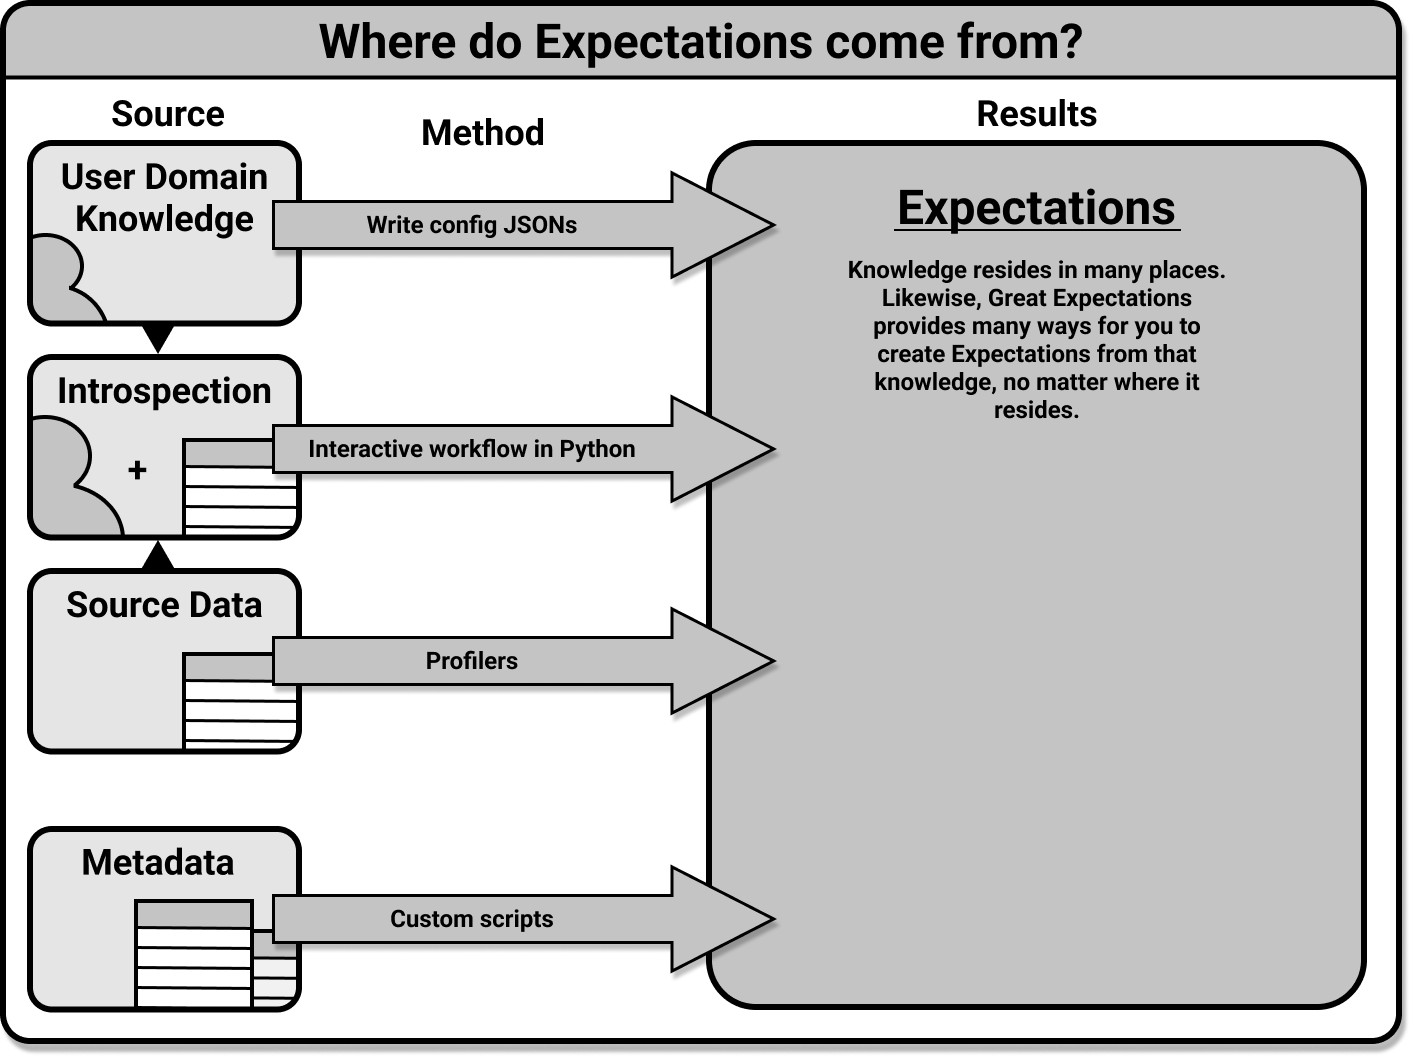
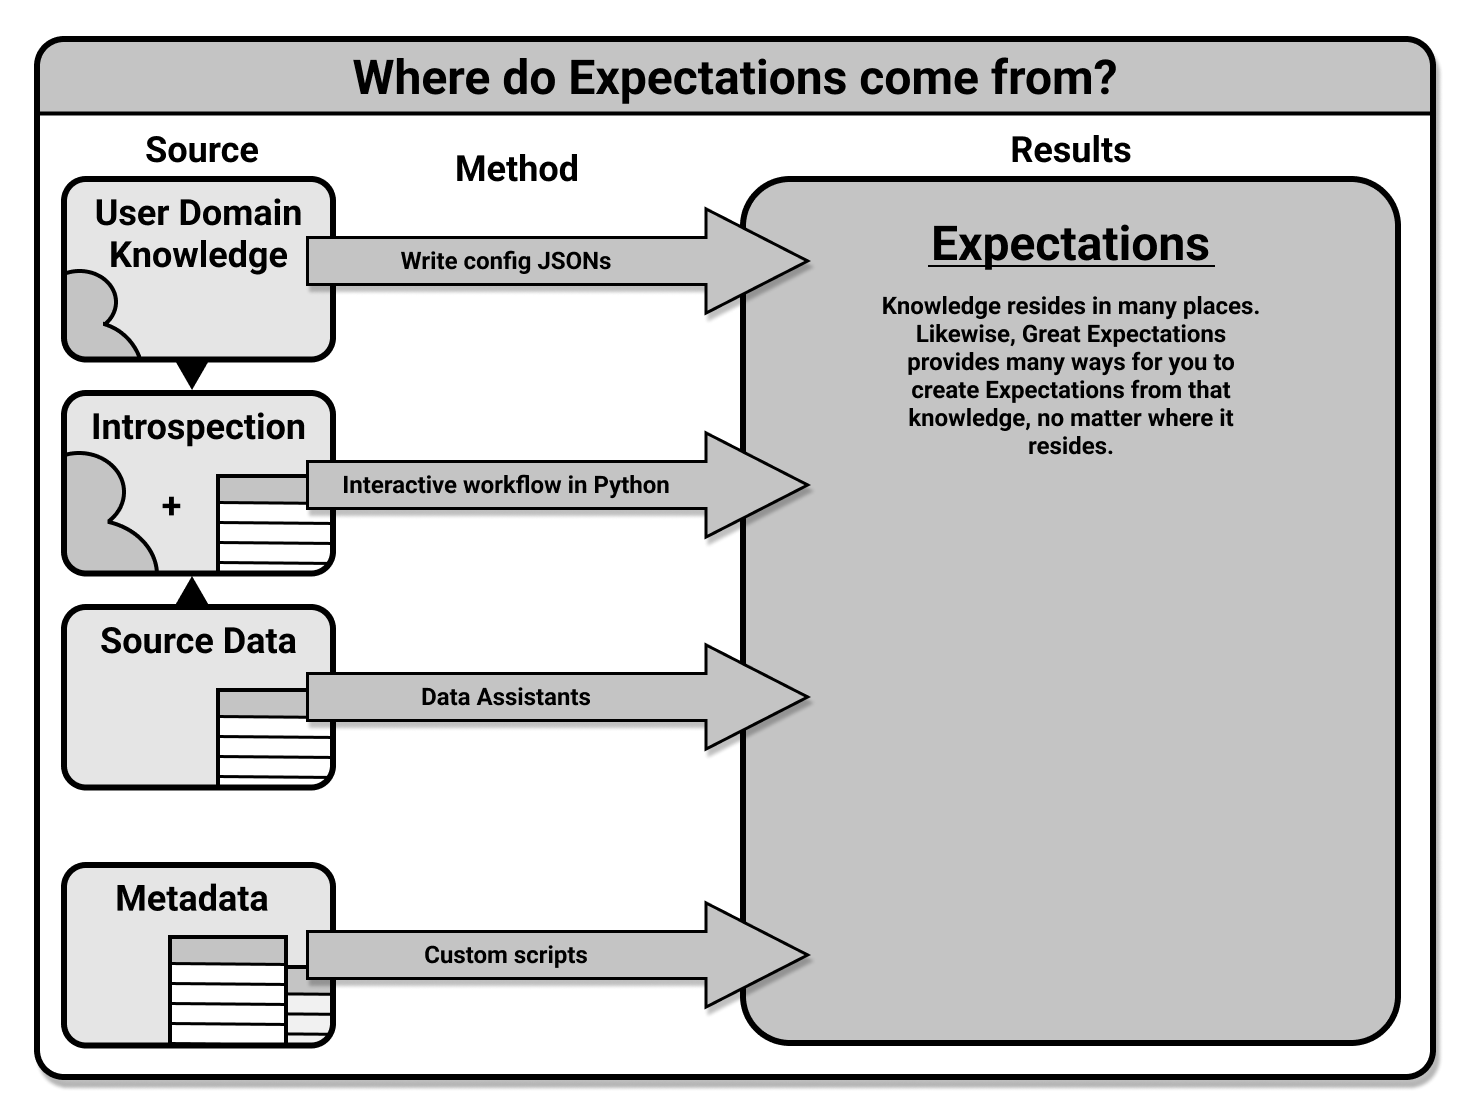
[DOCS] doc-297: update the create Expectations overview page for Data Assistants (#6212)

diff --git a/docs/guides/expectations/create_expectations_overview.md b/docs/guides/expectations/create_expectations_overview.md
@@ -26,7 +26,7 @@ Of the four potential ways to create Expectations illustrated above, two are rec
 
 The first recommended workflow of those illustrated above is the **interactive workflow.**  In this workflow, you will be working in a Python interpreter or Jupyter notebook.  You will use a <TechnicalTag tag="validator" text="Validator" /> and call expectations as methods on it to define Expectations in an Expectation Suite, and when you have finished you will save that Expectation Suite into your <TechnicalTag tag="expectation_store" text="Expectation Store" />.  A more thorough overview of this workflow, and a link to an in-depth guide on it, can be found in this document's section on [creating Expectations interactively](#creating-expectations-interactively).
 
-The second recommended workflow is the **Profiler workflow.**  In this workflow, you will use a <TechnicalTag tag="profiler" text="Profiler" /> to generate Expectations based on some input data.  The Validator will then save those Expectations as an Expectation Suite in an Expectation Store.  You will also have the option of viewing them in your <TechnicalTag tag="data_docs" text="Data Docs" />.  A more thorough overview of this workflow, and a link to an in-depth guide on it, can be found in this document's section on [creating Expectations with Profilers](#creating-expectations-with-profilers).
+The second recommended workflow is the **Data Assistant workflow.**  In this workflow, you will use a <TechnicalTag tag="data_assistant" text="Data Assistant" /> to generate Expectations based on some input data.  You may then preview the metrics that these Expectations are based on.  Finally, you save can the generated Expectations as an Expectation Suite in an Expectation Store. A more thorough overview of this workflow, and a link to an in-depth guide on it, can be found in this document's section on [creating Expectations with Data Assistants](#creating-expectations-with-data-assistants).
 
 The third workflow, which is for advanced users, is to **manually define your Expectations** by writing their configurations.  This workflow does not require source data to work against, but does require a deep understanding of the configurations available for Expectations.  We will forgo discussion of it in this document, and focus on the two recommended workflows.  If for some reason you must use this workflow, we do provide an in-depth guide to it in our documentation on [how to create and edit expectations based on domain knowledge without inspecting data directly](./how_to_create_and_edit_expectations_based_on_domain_knowledge_without_inspecting_data_directly.md).
 
@@ -40,13 +40,11 @@ When using the interactive method of creating Expectations, you will start as yo
 
 We provide an in-depth guide to using the CLI (and what flags are available to you) for interactively creating Expectations in our guide on [how to create and edit Expectations with instant feedback from a sample batch of data](./how_to_create_and_edit_expectations_with_instant_feedback_from_a_sample_batch_of_data.md).
 
-### Creating Expectations with Profilers
+### Creating Expectations with Data Assistants
 
-As with creating Expectations interactively, you will start with your Data Context.  However, in this case you will be working in a Python environment, so you will need to load or create your Data Context as an instantiated object.  Next, you will create a Batch Request to specify the data you would like to <TechnicalTag tag="profiling" text="Profile" /> in order to create your Expectation Suite.  Once you have a <TechnicalTag tag="batch_request" text="Batch Request" /> configured you will use it and the name for your Expectation Suite to instantiate a Validator.  The Validator will be used to instantiate a Profiler, and you will then use the `build_suite()` method of the Profiler to create your Expectation Suite. 
+As with creating Expectations interactively, you will start with your Data Context.  However, in this case you will be working in a Python environment, so you will need to load or create your Data Context as an instantiated object.  Next, you will create a Batch Request to specify the data you would like to <TechnicalTag tag="profiling" text="Profile" /> with your Data Assistant.  Once you have a <TechnicalTag tag="batch_request" text="Batch Request" /> configured you will use it as the input for the run method of your Data Assistant, which can be accessed from your Data Context object.  Once the Data Assistant has run, you will be able to review the results as well as save the generated Expectations to an empty Expectation Suite.
 
-The Profiler we recommend using for this workflow is the `UserConfigurableProfiler`.  We provide an in-depth guide to this in our documentation on [how to create and edit expectations with a profiler](./how_to_create_and_edit_expectations_with_a_profiler.md).
-
-We also provide in-depth guides on [how to create a new Expectation Suite using rule based Profilers](./advanced/how_to_create_a_new_expectation_suite_using_rule_based_profilers.md) and [how to create a new Expectation Suite by profiling from a json schema file](./advanced/how_to_create_a_new_expectation_suite_by_profiling_from_a_jsonschema_file.md) in our advanced how to guides for Expectations.
+The Data Assistant we recommend using for new data is the Onboarding Data Assistant.  We provide an in-depth guide to this in our documentation on [how to create an Expectation Suite with the Onboarding Data Assistant](./data_assistants/how_to_create_an_expectation_suite_with_the_onboarding_data_assistant.md).
 
 ### Testing your Expectation Suite
 
